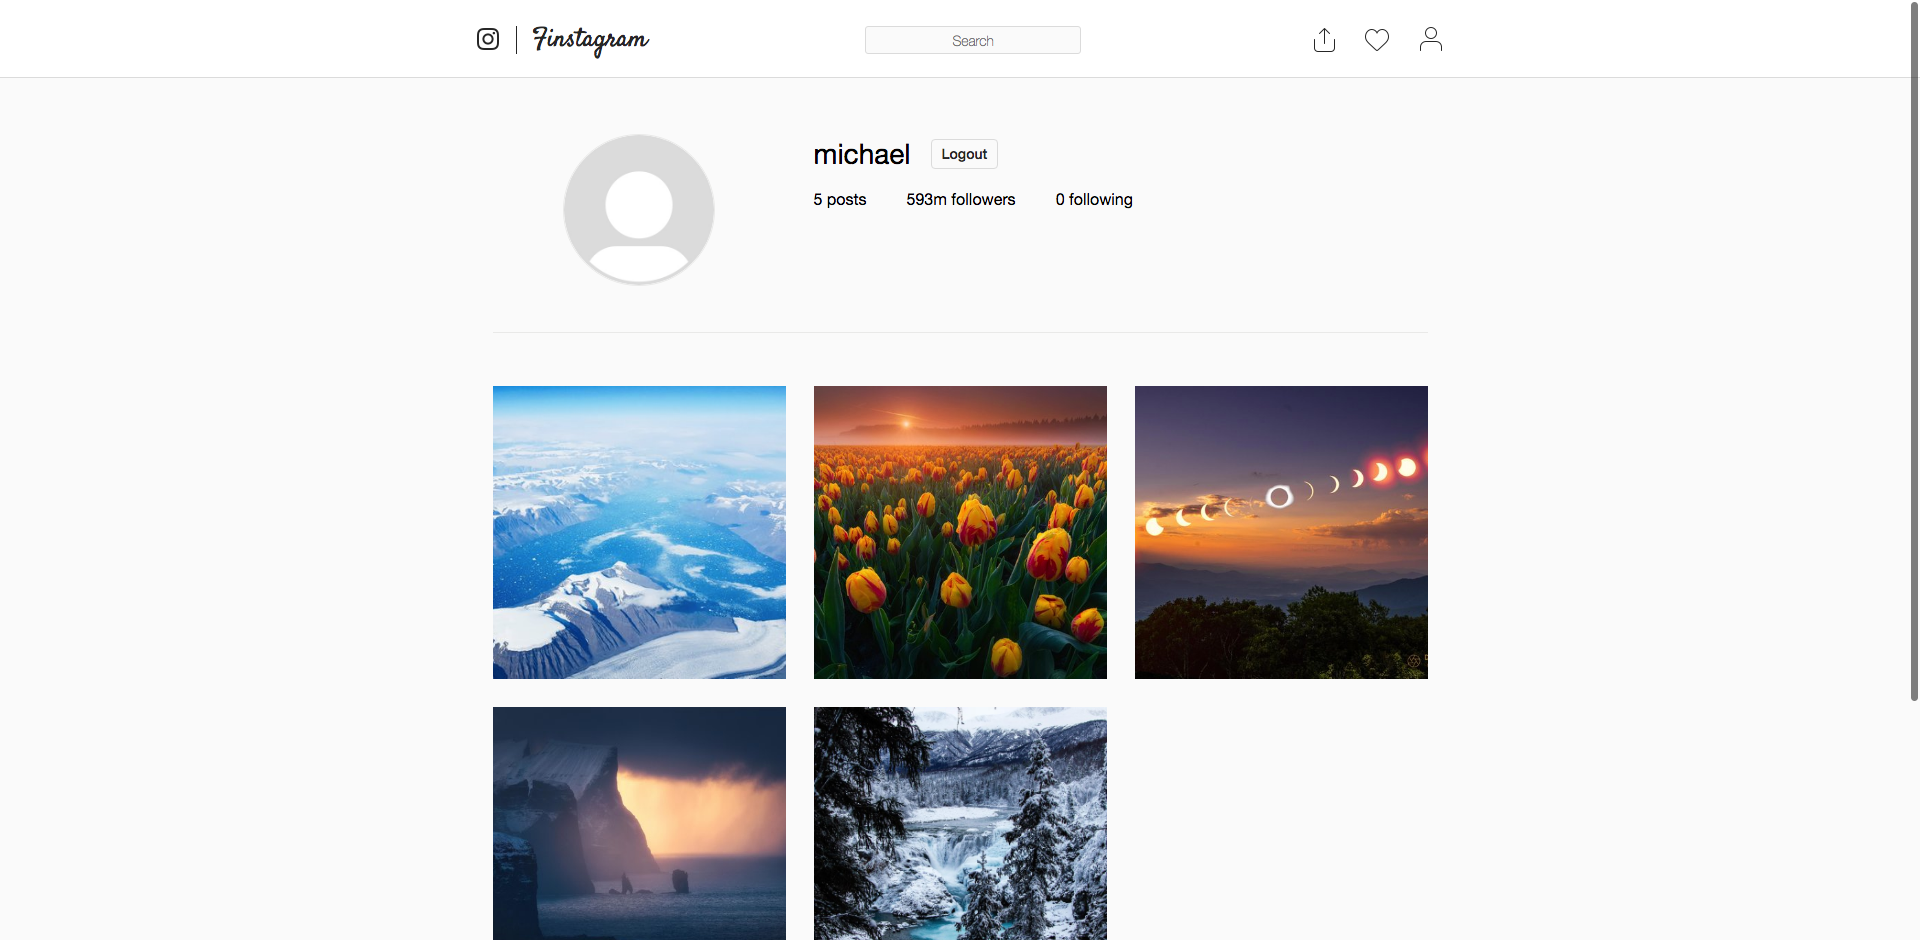
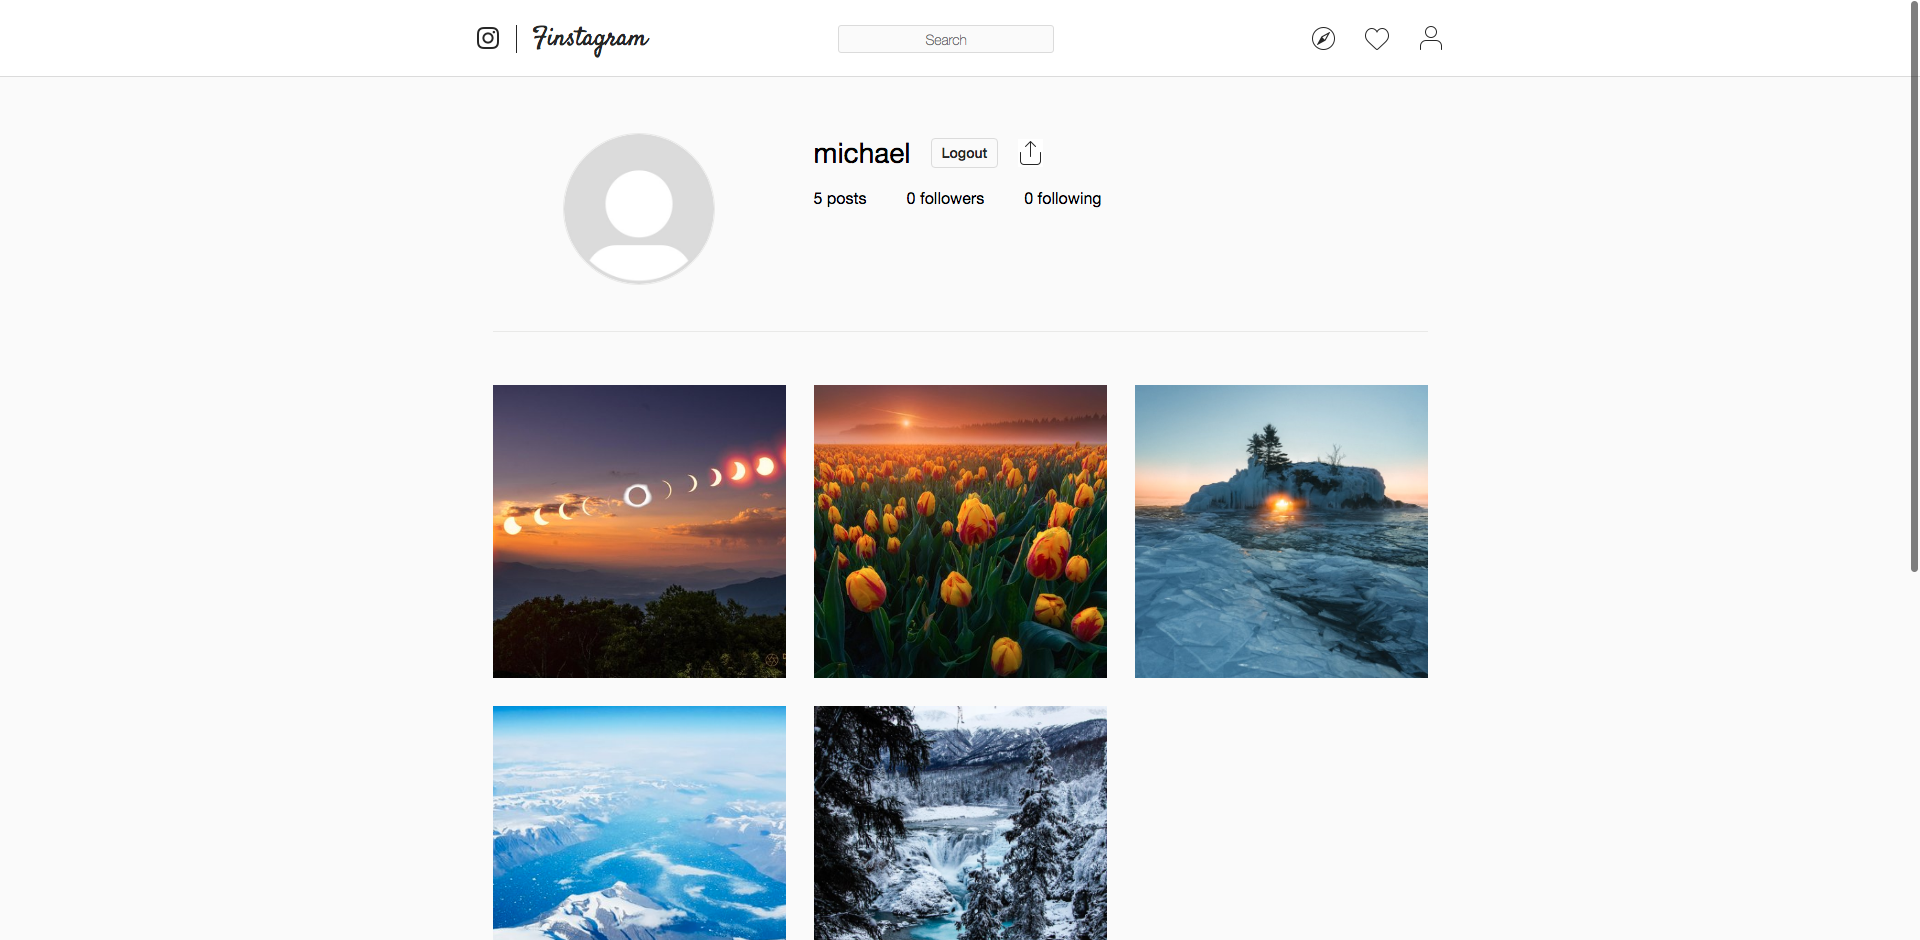
README

diff --git a/README.md b/README.md
@@ -2,7 +2,7 @@
 
 ## Live: [Finstagram](https://finstagram-aa.herokuapp.com/#/ "Finstagram")
 
-Finstagram is a fullstack single-page social media web application based on [Instagram](https://www.instagram.com/ "Instagram"). Users can sign up, share photos, and interact with photos other users posted by liking and commenting.
+Finstagram is a fullstack single-page social media web application based on [Instagram](https://www.instagram.com/ "Instagram"). Users can sign up, share photos, follow users, and interact with photos other users posted by liking and commenting.
 
 ![](./readme_images/splash-ss.png)
 
@@ -10,13 +10,13 @@ Finstagram is a fullstack single-page social media web application based on [Ins
 
 ## Feed
 
-Finstagram's main feature is being able to share photos and see photos of other users. Once logged in, users are taken to their feed. Users can create posts by clicking on the upload icon on the navigation bar, which immediately updates the feed with the most recent post.
+Finstagram's main feature is being able to share photos and see photos of other users. On sign up, users are taken to the explore page because their feed will be empty. Here they may view posts by other users and follow them if they choose, populating their feed. Users can create posts by clicking on the upload icon on their personal profile, which immediately updates the feed with the most recent post.
 
 ![](./readme_images/feed-ss.png)
 
 ## Profile
 
-Users can navigate to their personal profile by clicking on the profile icon. Their total number of posts is displayed by their username. From there, they may view all of their posts individually, delete posts, create posts through the navigation bar, or navigate back to their feed by clicking on the logo icon.
+Users can navigate to their personal profile by clicking on the profile icon. Their total number of posts is displayed by their username. From there, they may view all of their posts individually, delete posts, create posts, or navigate back to their feed by clicking on the logo icon.
 
 ![](./readme_images/profile-ss.png)
 ![](./readme_images/postview-ss.png)
@@ -75,6 +75,5 @@ Development technologies for Finstagram include React/Redux for the frontend, Ru
 # Future Implementations
 
 * Search bar to find other users
-* Follow feature to personalize feed
 * Edit profile and upload profile photo
 * Notifications for likes and comments
